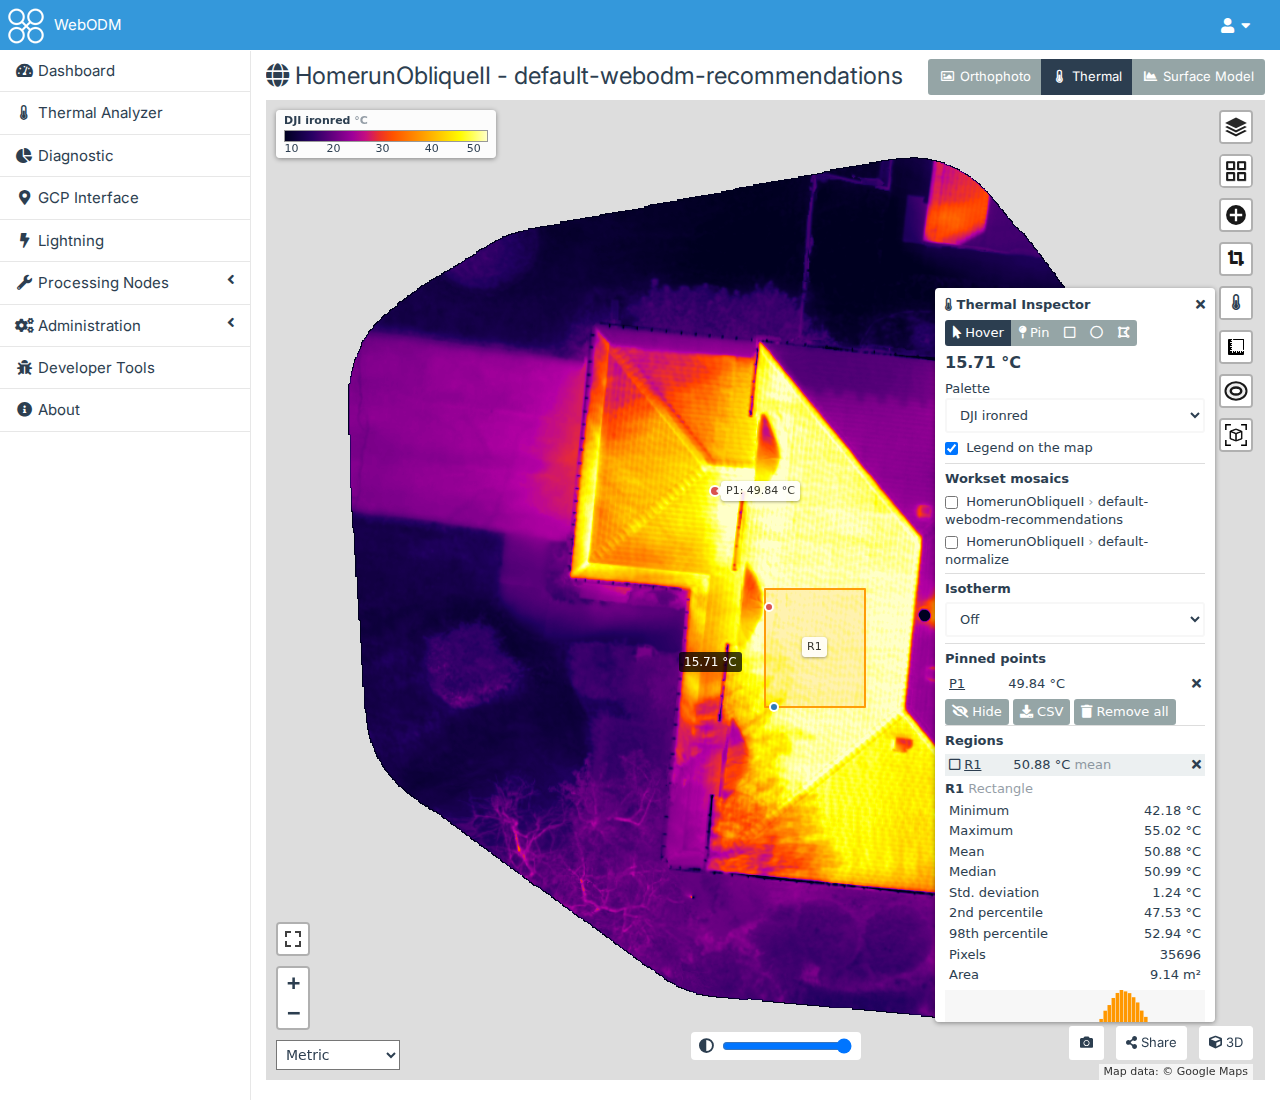
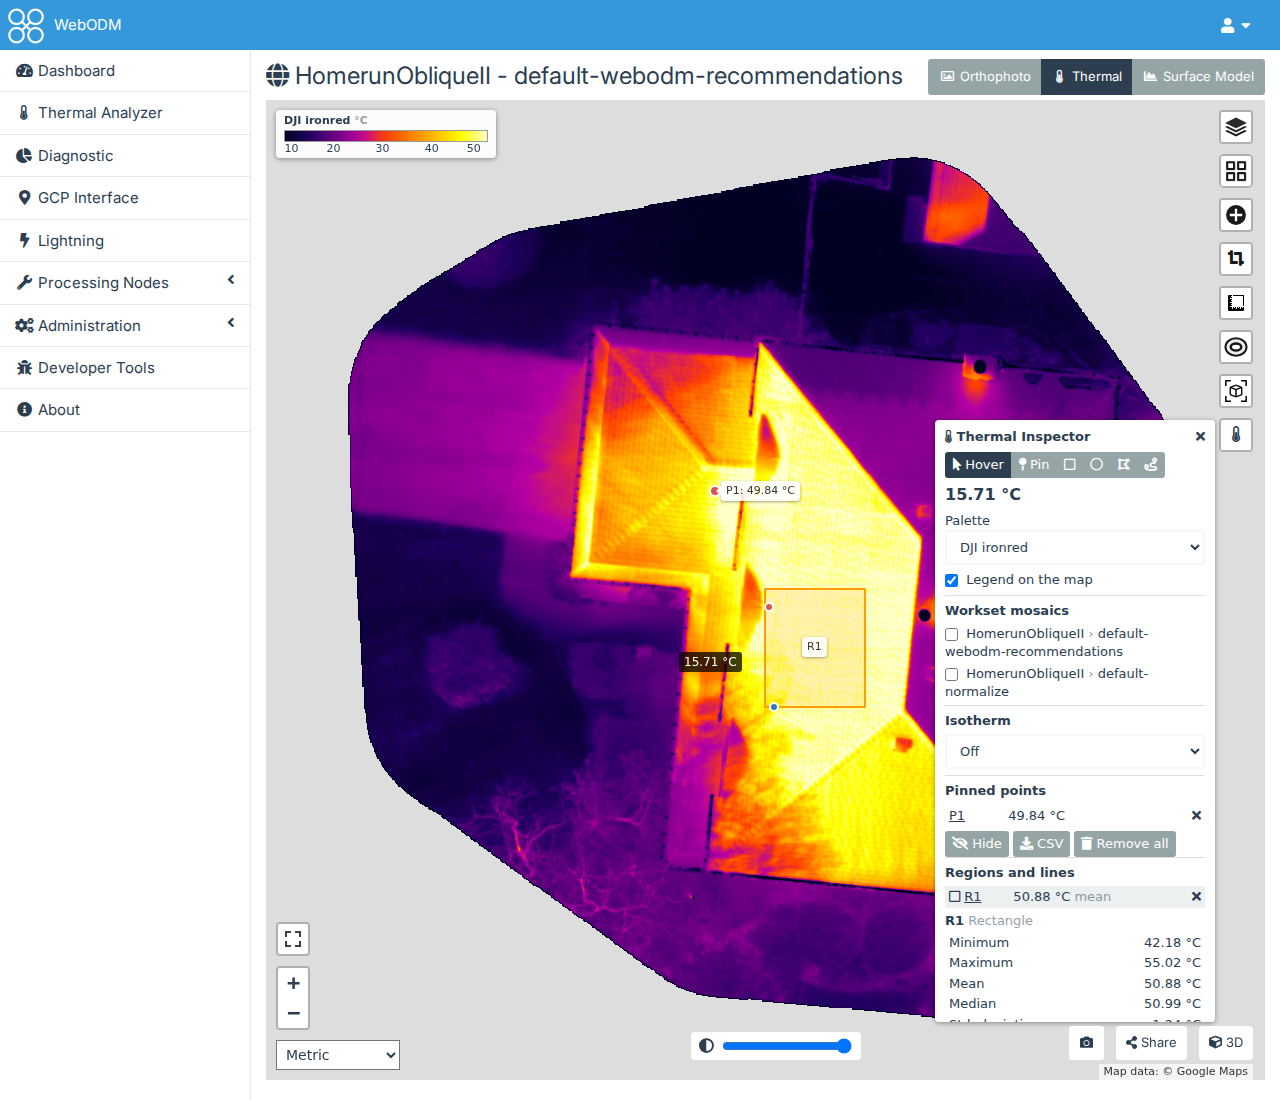
Thermal Inspector's lines: labelled at their start; the docs, screenshots and plan
A line's label sat at its middle, over the point its profile marks there. README, index, the
Inspector quickstart and api.md describe lines, profiles, surroundings, ΔT and the isotherm's
share; the inspector shot closes the frames window its pin now opens, inspector-line is new.

Changed region(s): [[0.7188, 0.2473, 0.9688, 0.9273]]

diff --git a/dev/screenshots.js b/dev/screenshots.js
@@ -169,6 +169,8 @@ const SHOTS = {
         await p.click('.dt-inspector-modes [data-mode="pin"]');
         await p.mouse.click(...at(0.45, 0.4));
         await p.waitForTimeout(1000);
+        // The pin opens the frames that saw it (a task processed from a workset): closed, off the region's place
+        await p.click('.dt-inspector-frames [data-pip="close"]', {timeout: 5000}).catch(() => {});
         await p.click('.dt-inspector-modes [data-mode="rectangle"]');
         await p.mouse.move(...at(0.5, 0.5));
         await p.mouse.down();
@@ -178,6 +180,26 @@ const SHOTS = {
         await p.click('.dt-inspector-modes [data-mode="hover"]');
         await p.mouse.move(...at(0.4, 0.55));
         await p.waitForTimeout(1500);
+        return p;
+    },
+    "inspector-line": async (p, env) => {
+        // A line across the map's thermal orthophoto, its profile hovered: the point found on the map
+        await p.setViewportSize({width: SIZE.width, height: 1100});    // room for its statistics and profile
+        await p.goto(env.url + need(env, "DT_DOCS_MAP"));
+        await p.waitForSelector(".dt-inspector-button", {timeout: 30000});
+        await p.waitForTimeout(3000);
+        await p.click(".dt-inspector-button");
+        const map = await p.locator(".leaflet-container").first().boundingBox();
+        const at = (fx, fy) => [map.x + map.width * fx, map.y + map.height * fy];
+        await p.click('.dt-inspector-modes [data-mode="line"]');
+        await p.mouse.click(...at(0.3, 0.5));
+        await p.waitForTimeout(300);
+        await p.mouse.dblclick(...at(0.55, 0.6));
+        await p.waitForSelector(".dt-inspector-profile svg", {timeout: 30000});
+        await p.locator(".dt-inspector-profile svg").scrollIntoViewIfNeeded();
+        const profile = await p.locator(".dt-inspector-profile svg").boundingBox();
+        await p.mouse.move(profile.x + profile.width * 0.6, profile.y + profile.height / 2);
+        await p.waitForTimeout(1000);
         return p;
     },
     "inspector-frames": async (p, env) => {

diff --git a/dji-thermal/public/inspector.js b/dji-thermal/public/inspector.js
@@ -785,8 +785,11 @@
                 var shape = r.circle ? L.circle([r.circle.lat, r.circle.lng], assign({radius: r.circle.radius, interactive: false}, style)) :
                     r.shape === "line" ? L.polyline(latLngs(r), assign({interactive: false}, style, {weight: style.weight + 1})) :
                     L.polygon(latLngs(r), assign({interactive: false}, style));
-                shape.bindTooltip(r.label, {permanent: true, direction: "center", className: "dt-inspector-tip"});
                 regionLayer.addLayer(shape);
+                // A line's label at its start, off the points its profile finds along it
+                var labelled = r.shape !== "line" ? shape : L.circleMarker(latLngs(r)[0], {radius: 3, color: style.color, weight: 2, fillColor: "#fff", fillOpacity: 1, interactive: false});
+                labelled.bindTooltip(r.label, {permanent: true, direction: r.shape === "line" ? "left" : "center", className: "dt-inspector-tip"});
+                if (labelled !== shape) regionLayer.addLayer(labelled);
                 if (r.statistics) {
                     regionLayer.addLayer(extremeMarker(r, "min"));
                     regionLayer.addLayer(extremeMarker(r, "max"));

diff --git a/dji-thermal/public/__tests__/inspector.test.js b/dji-thermal/public/__tests__/inspector.test.js
@@ -330,6 +330,9 @@ describe("the Thermal Inspector's regions", () => {
         expect(panel().querySelector(".dt-inspector-profile-read").textContent).toContain("12.5 m: 30.00 °C");
         panel().dispatchEvent(new MouseEvent("mouseleave"));
         expect(markers()).toEqual([]);
+        const labels = [];
+        map.eachLayer(l => { if (l.getTooltip && l.getTooltip()) labels.push([l.getTooltip()._content, l.getLatLng ? l.getLatLng() : null]); });
+        expect(labels).toContainEqual(["L1", L.latLng(42, -88.07)]);     // at its start
 
         expect(inspector.profileCsv(ins.state.regions[0], "C").split("\n").slice(0, 3)).toEqual(
             ["distance_m,latitude,longitude,temperature_c", "0.000,42.00000000,-88.07000000,20.000", "5.000,42.00000000,-88.06990000,"]);

diff --git a/README.md b/README.md
@@ -10,7 +10,8 @@ Process DJI radiometric thermal photos (R-JPEG) in WebODM and get temperature ma
   worksets side by side), places the frames into mosaics shown on a map, and makes a WebODM task from the
   workset you choose.
 - **Thermal Inspector**, on WebODM's 2D map of a task with a thermal orthophoto: the temperature under the cursor,
-  pinned points, the statistics of regions drawn on it, isotherms, the map's palette and its legend. It also lays the
+  pinned points, the statistics of regions and lines drawn on it (with their surroundings and ΔT, and a line's
+  profile), isotherms, the map's palette and its legend. It also lays the
   Analyzer's workset mosaics on the map, to compare them with the project's own layers, and shows the frames that saw
   a point clicked.
 
@@ -230,14 +231,21 @@ Inspector:
 - **Pin**: a click pins the point with its temperature, labelled P1, P2…, shown on the map instead of WebODM's
   popup. The pins are listed in the panel (click one to go to it), can be hidden and shown together, removed, and
   downloaded as CSV (latitude, longitude, temperature). They are kept in your browser for the same tasks.
-- **Regions**: draw a rectangle or a circle (press and drag) or a polygon (click its corners; double-click or Enter
-  finishes, Backspace removes the last corner, Esc cancels), labelled R1, R2…. The panel shows the statistics of
-  the temperatures inside it: minimum, maximum, mean, median, standard deviation, 2nd and 98th percentiles, the
-  number of pixels and the area, and a histogram; the hottest and coldest pixels are marked on the map. Pixels
-  outside the task's crop or without data are left out; a region more than 4,096 pixels across is read at a reduced
-  resolution, and the panel says so. Regions are listed (click one's row for its statistics, or its name to
-  go to it too), can be hidden, removed and downloaded as CSV (a row of statistics per region, with the hottest and
-  coldest pixels' positions), and are kept in your browser for the same tasks.
+- **Regions and lines**: draw a rectangle or a circle (press and drag) or a polygon (click its corners; double-click
+  or Enter finishes, Backspace removes the last corner, Esc cancels), labelled R1, R2…, or a line (click its points,
+  finished the same way), labelled L1, L2…. The panel shows the statistics of the temperatures inside a region, or
+  along a line (a strip 0.25 m either side of it): minimum, maximum, mean, median, standard deviation, 2nd and 98th
+  percentiles, the number of pixels, the area or length, and a histogram; the hottest and coldest pixels are marked
+  on the map. It also shows the **surroundings** (the mean of a ring around a region, from its outline out to its
+  size, 1 to 3 m; of a band 1 m wide beside a line) and **ΔT**, the mean's difference with them; with the isotherm
+  on, the share of the region's pixels in it. A line has its **profile** instead of the histogram: its temperatures
+  every pixel along it, broken where there are none. Hovering the profile marks its
+  point on the map (and on a workset mosaic names the frame it came from); a click there opens the frames that saw
+  it. Pixels outside the task's crop or without data are left out; a region more than 4,096 pixels across is read at
+  a reduced resolution, and the panel says so. Regions and lines are listed (click one's row for its statistics, or
+  its name to go to it too), can be hidden, removed and downloaded as CSV (a row of statistics per region or line,
+  with the hottest and coldest pixels' positions; a line's profile as its own CSV), and are kept in your browser for
+  the same tasks.
 - **Palette**: the thermal layer's palette, from the same list as the Analyzer's: DJI's palettes (drawn by the
   plugin, over the range set in WebODM's layer panel) and WebODM's colour maps. It is your palette everywhere: the
   Analyzer's preference, saved when you choose one here or in WebODM's own layer panel, and the one the map opens

diff --git a/upcoming-changes.md b/upcoming-changes.md
@@ -267,7 +267,7 @@
 - **Thermal Analyzer, part 2** (the user, 2026-11-01; details under "Up next: Thermal Analyzer, part 2" below):
   the workset mosaics laid on WebODM's 2D map from the Thermal Inspector (for comparing with any task's layers), the
   source frames window, measuring tools and saved measurements there, and the frame page. In five steps; steps 1
-  (the mosaics on the map) and 2 (the source frames window) done 2026-11-01.
+  (the mosaics on the map), 2 (the source frames window) and 3 (measuring: lines, surroundings, ΔT) done 2026-11-01.
 
 **Last**
 - **Publish 1.0.0**, the final step, when the user says so: after any change to `dji-thermal/`, the release is redone
@@ -411,6 +411,27 @@ last phase did with its colouring.
    `profile_points`, `mosaic_measure`): statistics and histogram, where the extremes are, the surroundings and ΔT,
    the isotherm's share, a line's profile (with each sample's frame on a mosaic); its result panel and charts
    (`result.tsx`, `charts.tsx`) in plain JavaScript. The Inspector's region endpoint and this share one module.
+   Decided (the user, 2026-11-01): the Inspector's own toolbar is extended rather than a second one added (it already
+   had Pin, Rectangle, Circle, Polygon, statistics, histogram and the extremes marked): a Line tool, and every
+   region's surroundings, ΔT and isotherm share; pins stay one pixel's temperature (no disc, surroundings or ΔT).
+   **Done** (2026-11-01, `inspector-measure`): `inspector.py` (`raster_region` takes a line: a strip
+   `LINE_HALF_WIDTH` 0.25 m either side, its `length` and `_profile` every pixel up to 1,000 samples, on a mosaic each
+   sample's source frame; every region's `surroundings` (a ring from its outline out to its size, 1 to 3 m; a band 1 m
+   beside a line) and `delta_t`, and `isotherm_share` when asked; GEOS, as WebODM has no shapely), `inspector_api.py`
+   (`region_request`'s `isotherm`, `region_isotherm`), `analyzer_api.py` (`MosaicRegion` passes the source frame
+   band), `regions.js` (a line: clicks, double-click or Enter, `lineGeometry`), `inspector.js` (Line mode, L1…
+   numbered apart from R1…, the rows, `profileHtml` with hover marking the point on the map and a click opening its
+   frames, the line labelled at its start, the isotherm's limits sent and the shown region measured again when they
+   change, `profileCsv`, the regions CSV's new columns), `inspector.css`. Tests: `test_inspector.py` (a line's
+   profile and length, a sample without data, a one-point line refused; surroundings and ΔT of a hot square and of a
+   line along a hot band; the isotherm share, refused limits), `test_analyzer.py` (a mosaic line's frames),
+   `inspector.test.js` (changed: the CSV's columns and the new rows; new: a line drawn, its profile hovered, its CSV,
+   L/R numbering; the isotherm share measured again). Jest 175, Django 140 (1 skipped), ESLint, Ruff; the isotherm
+   share's test seen failing with the upper limit ignored. Live on project 1 (read only): HomerunObliqueII's
+   orthophoto (a line: 13.1 m, surroundings and ΔT, the profile hovered and clicked to the frames window; a rectangle
+   with the isotherm Above: 19.3 %) and its workset's mosaic (a line, each sample's frame named); no console errors.
+   Docs: README, `index.md`, the Inspector quickstart's section 2, `api.md`; screenshots `inspector` retaken (the
+   shot now closes the frames window its pin opens), `inspector-line` new.
 4. **Saved measurements**: named, with a comment, kept with what they measure (a workset's
    `viewer/measurements.json`, a task's `thermal/measurements.json`, replaced atomically), listed in the panel,
    renamed and deleted, exported as CSV and GeoJSON; the approximate emissivity / reflected-temperature correction

diff --git a/docs/api.md b/docs/api.md
@@ -34,7 +34,7 @@ workset's id (12 hexadecimal characters).
 | POST | `.../conversions/<workset>/parent` | Sends the workset's TIFFs to the dataset's own task. |
 | GET, POST | `.../conversions/<workset>/mosaics` | The mosaics as the viewer shows them; builds them. |
 | GET | `.../mosaics/<tab>/tiles/<z>/<x>/<y>.png` | A map tile of a mosaic tab, over `rescale=min,max` in `color_map`, drawn with `gamma` (0.2 to 5), `sharpen` (0 to 5), and on temperatures `equalize=1` and `isotherm` (`above,T`, `below,T` or `between,A,B`, in the mosaic's unit: those pixels in the palette, the rest grey); the same for a frame's picture. |
-| POST | `.../mosaics/<tab>/region` | A temperature tab's statistics inside a GeoJSON polygon, in °C, as the Thermal Inspector's `region`. |
+| POST | `.../mosaics/<tab>/region` | A temperature tab's statistics inside a GeoJSON polygon or along a line, in °C, as the Thermal Inspector's `region`; a line's profile also names each sample's source frame. |
 | GET | `.../mosaics/<tab>/isotherm/<z>/<x>/<y>.png?low=&high=&color=` | A temperature tab's isotherm tile, as the Thermal Inspector's `isotherm` (limits in °C). |
 | GET | `.../mosaics/<tab>/curve?rescale=&gamma=&equalize=` | How the tab's images are drawn, for the colour scale: the palette's share at 65 values evenly across the range. |
 | GET | `.../mosaics/<tab>/point?lon=&lat=` | The temperature, frame, frame pixel (the frame's column and row) and view angle at a point. |
@@ -49,7 +49,7 @@ On a task with a thermal orthophoto, under `projects/<project>/tasks/<task>/insp
 | Method | Path | What it does |
 | --- | --- | --- |
 | GET | `point?lon=&lat=` | The temperature at a point, or why there's none. |
-| POST | `region` | A region's statistics and histogram, from a GeoJSON polygon. Nothing is kept. |
+| POST | `region` | The statistics and histogram of a GeoJSON polygon, or of a line (a strip 0.25 m either side, with its length and profile), with the surroundings' mean and ΔT; `isotherm: {low, high}` (°C, either null) adds the share of its pixels within them. Nothing is kept. |
 | GET | `tiles/<z>/<x>/<y>` | The orthophoto drawn in one of DJI's palettes. |
 | GET | `isotherm/<z>/<x>/<y>` | An isotherm's tiles. |
 | GET | `palette?name=` | A palette's colours, for the legend. |

diff --git a/docs/quickstart-inspector.md b/docs/quickstart-inspector.md
@@ -22,12 +22,26 @@ The panel's buttons choose what a click on the map does:
 - **Rectangle**, **circle** and **polygon**: draw a region (R1, R2…). For a rectangle or circle, press and drag. For
   a polygon, click its corners, then double-click or press Enter to finish (Backspace removes the last corner, Esc
   cancels).
+- **Line**: click the line's points, then double-click or press Enter to finish (L1, L2…).
 
 For each region, the panel shows the minimum, maximum, mean, median, standard deviation, 2nd and 98th percentiles,
-the number of pixels, the area and a histogram. The hottest and coldest pixels are marked on the map.
+the number of pixels, the area and a histogram. The hottest and coldest pixels are marked on the map. It also shows:
 
-Pins and regions can be hidden, removed, and downloaded as CSV. Your browser keeps them for the next time you open
-the same task.
+- **Surroundings**: the mean temperature of a ring around the region, from its outline out to its size (between 1
+  and 3 m).
+- **ΔT**: the region's mean minus its surroundings'. A hot spot on a roof has a ΔT well above zero.
+- **In the isotherm**: with an isotherm on (section 3), the share of the region's pixels within its limits. Change
+  the limits and the region shown is measured again.
+
+A line is measured along a strip 0.25 m either side of it, with its surroundings in a band 1 m wide beside it. In
+place of the histogram it has its **profile**: the temperatures every pixel along it. Hover the profile to see each
+point's distance and temperature, marked on the map; click it to open the frames that saw that point (section 5).
+
+![A line across a roof, its profile hovered: the point is marked on the map](images/inspector-line.png)
+
+Pins, regions and lines can be hidden, removed, and downloaded as CSV; a line's profile has its own **Profile CSV**
+(distance, position and temperature of each point, and on a workset mosaic its frame). Your browser keeps them for
+the next time you open the same task.
 
 ## 3. Colours, legend and isotherms
 

diff --git a/docs/index.md b/docs/index.md
@@ -9,7 +9,7 @@ The DJI Thermal plugin turns the radiometric thermal photos of a DJI drone (R-JP
   them with the settings you choose (several worksets side by side), shows quick mosaics on a map, and makes a
   WebODM task from the workset you pick.
 - **Thermal Inspector**, on WebODM's map of a processed thermal task. It shows the temperature under the cursor,
-  pinned points, region statistics, isotherms and a legend, lays the Analyzer's mosaics on the map to compare
+  pinned points, the statistics of regions and lines (surroundings, ΔT, a line's profile), isotherms and a legend, lays the Analyzer's mosaics on the map to compare
   them with the project's own layers, and shows the frames that saw a point.
 
 Temperatures are computed on your WebODM server by [dji-thermal-cli](https://pypi.org/project/dji-thermal-cli/),
@@ -25,7 +25,7 @@ Each one walks through a task from start to finish.
    found and the settings WebODM should use.
 3. [Worksets, mosaics and a task](quickstart-worksets.md): convert the photos, look at the mosaics, and make a
    WebODM task from them.
-4. [Measuring on the map](quickstart-inspector.md): temperatures, points and regions on the processed map.
+4. [Measuring on the map](quickstart-inspector.md): temperatures, points, regions and lines on the processed map.
 
 ## Guides
 
